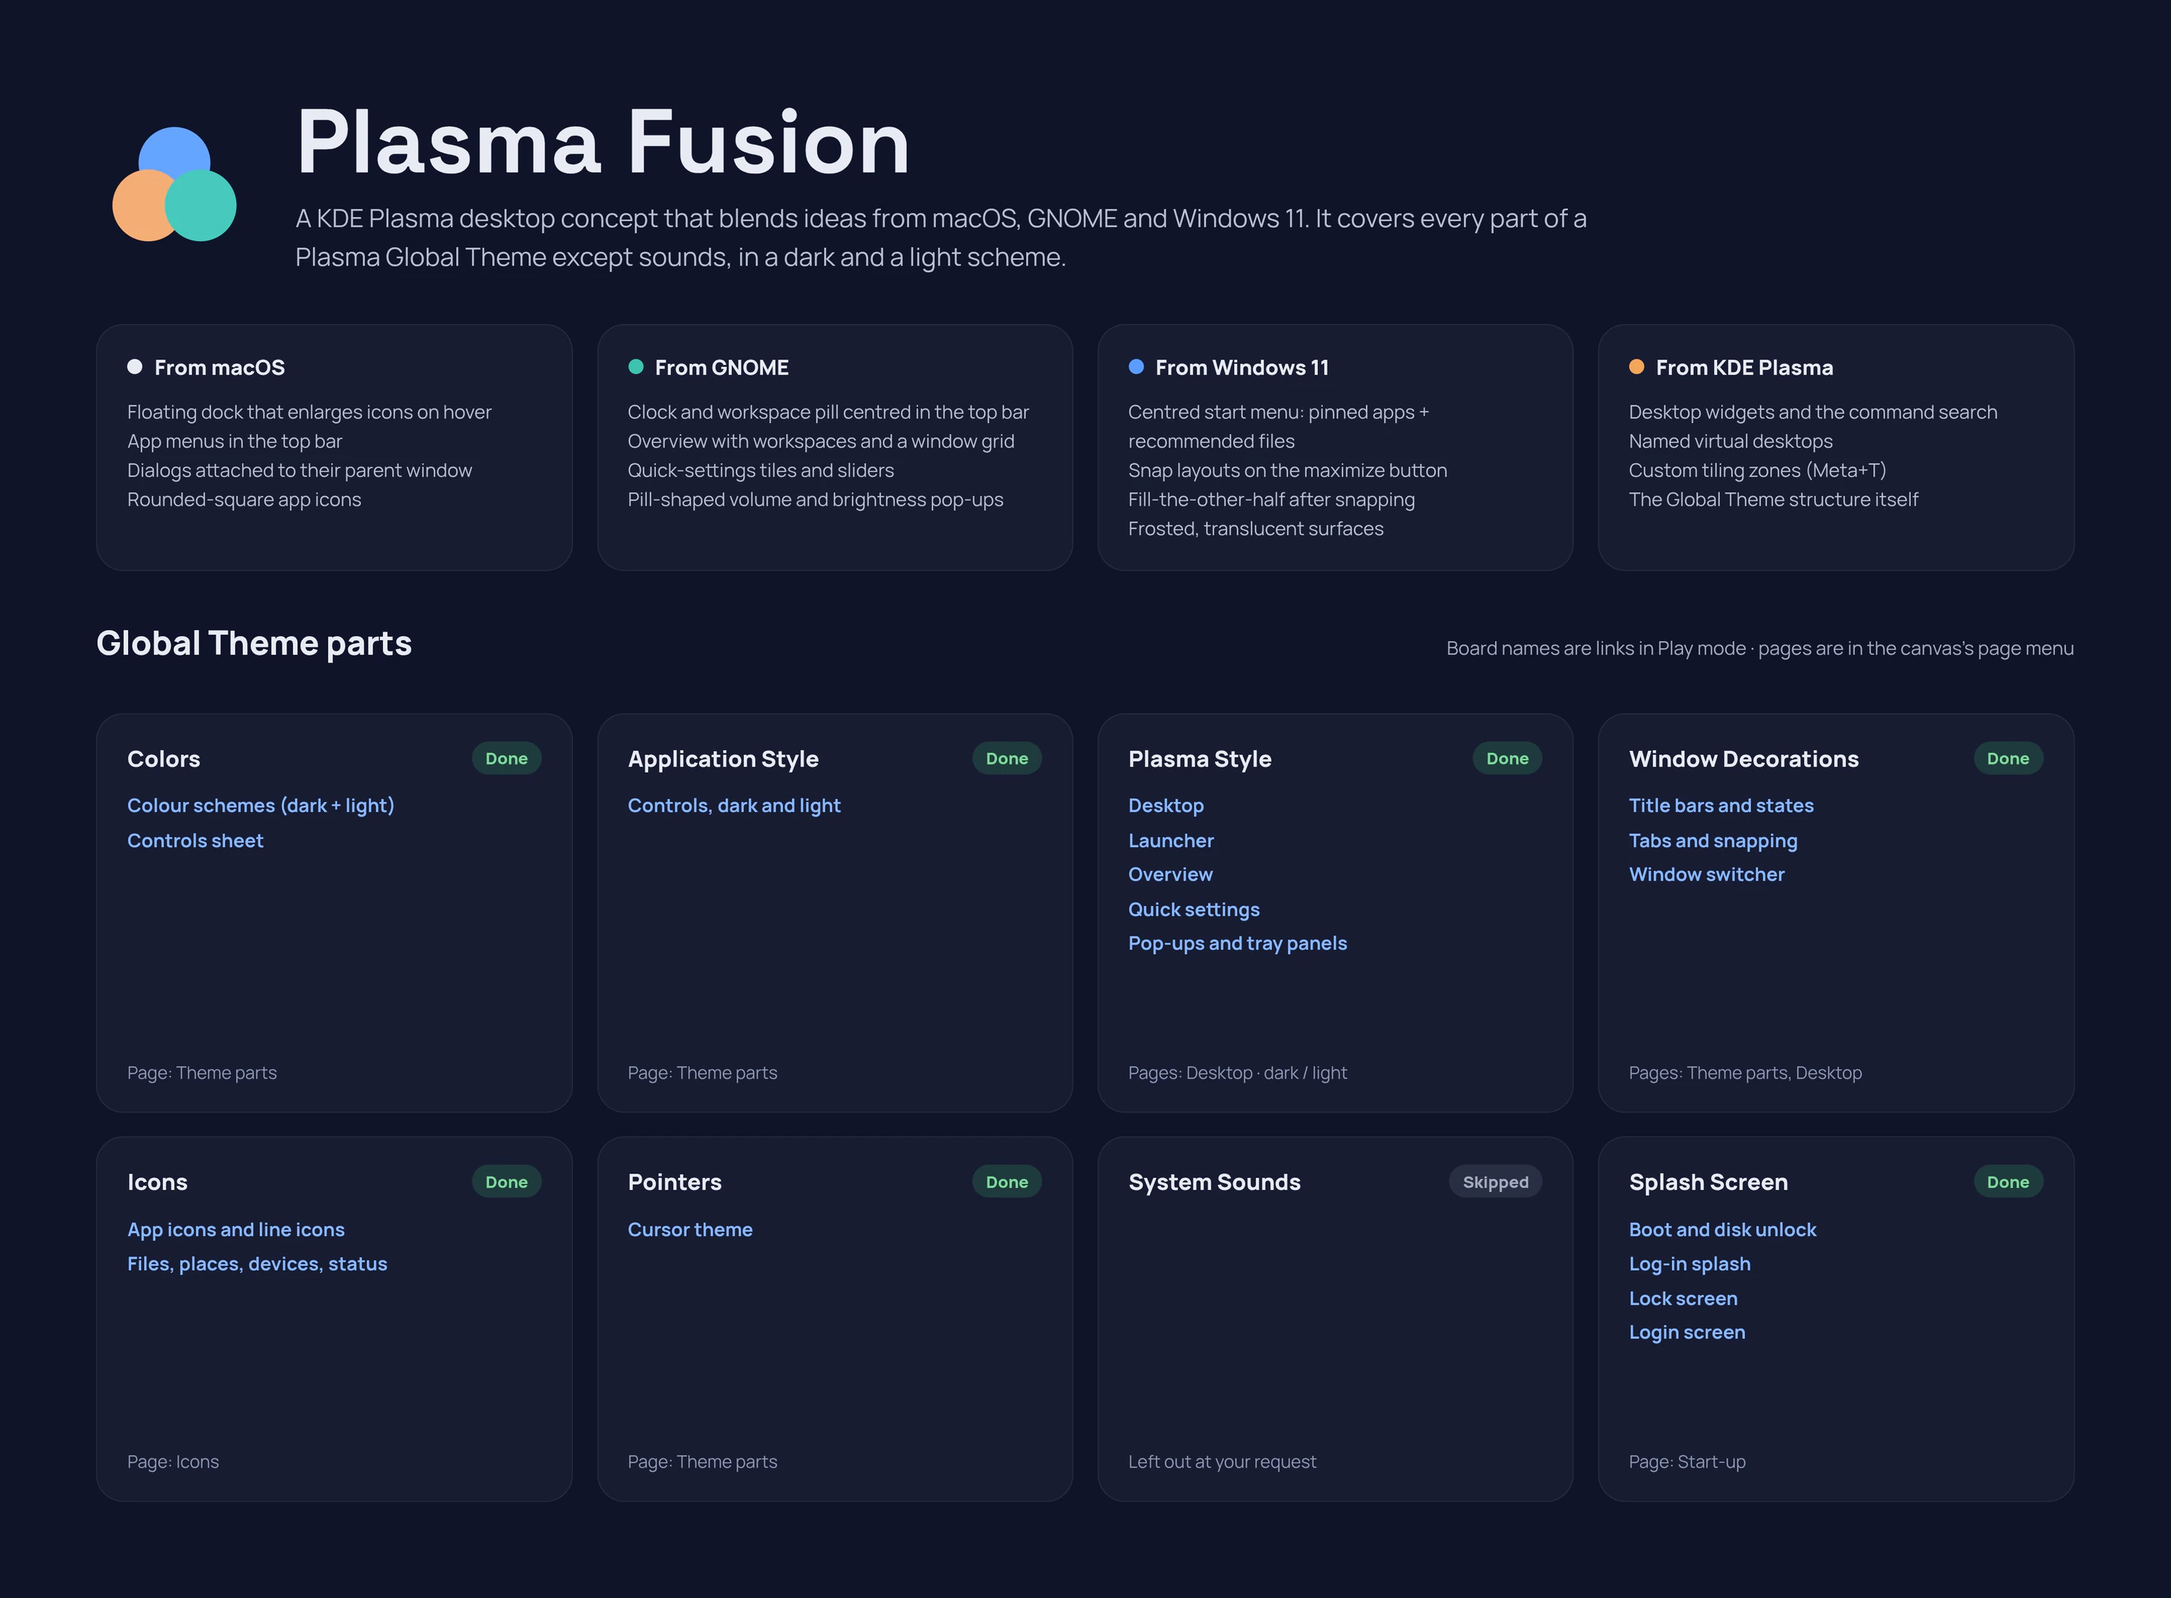
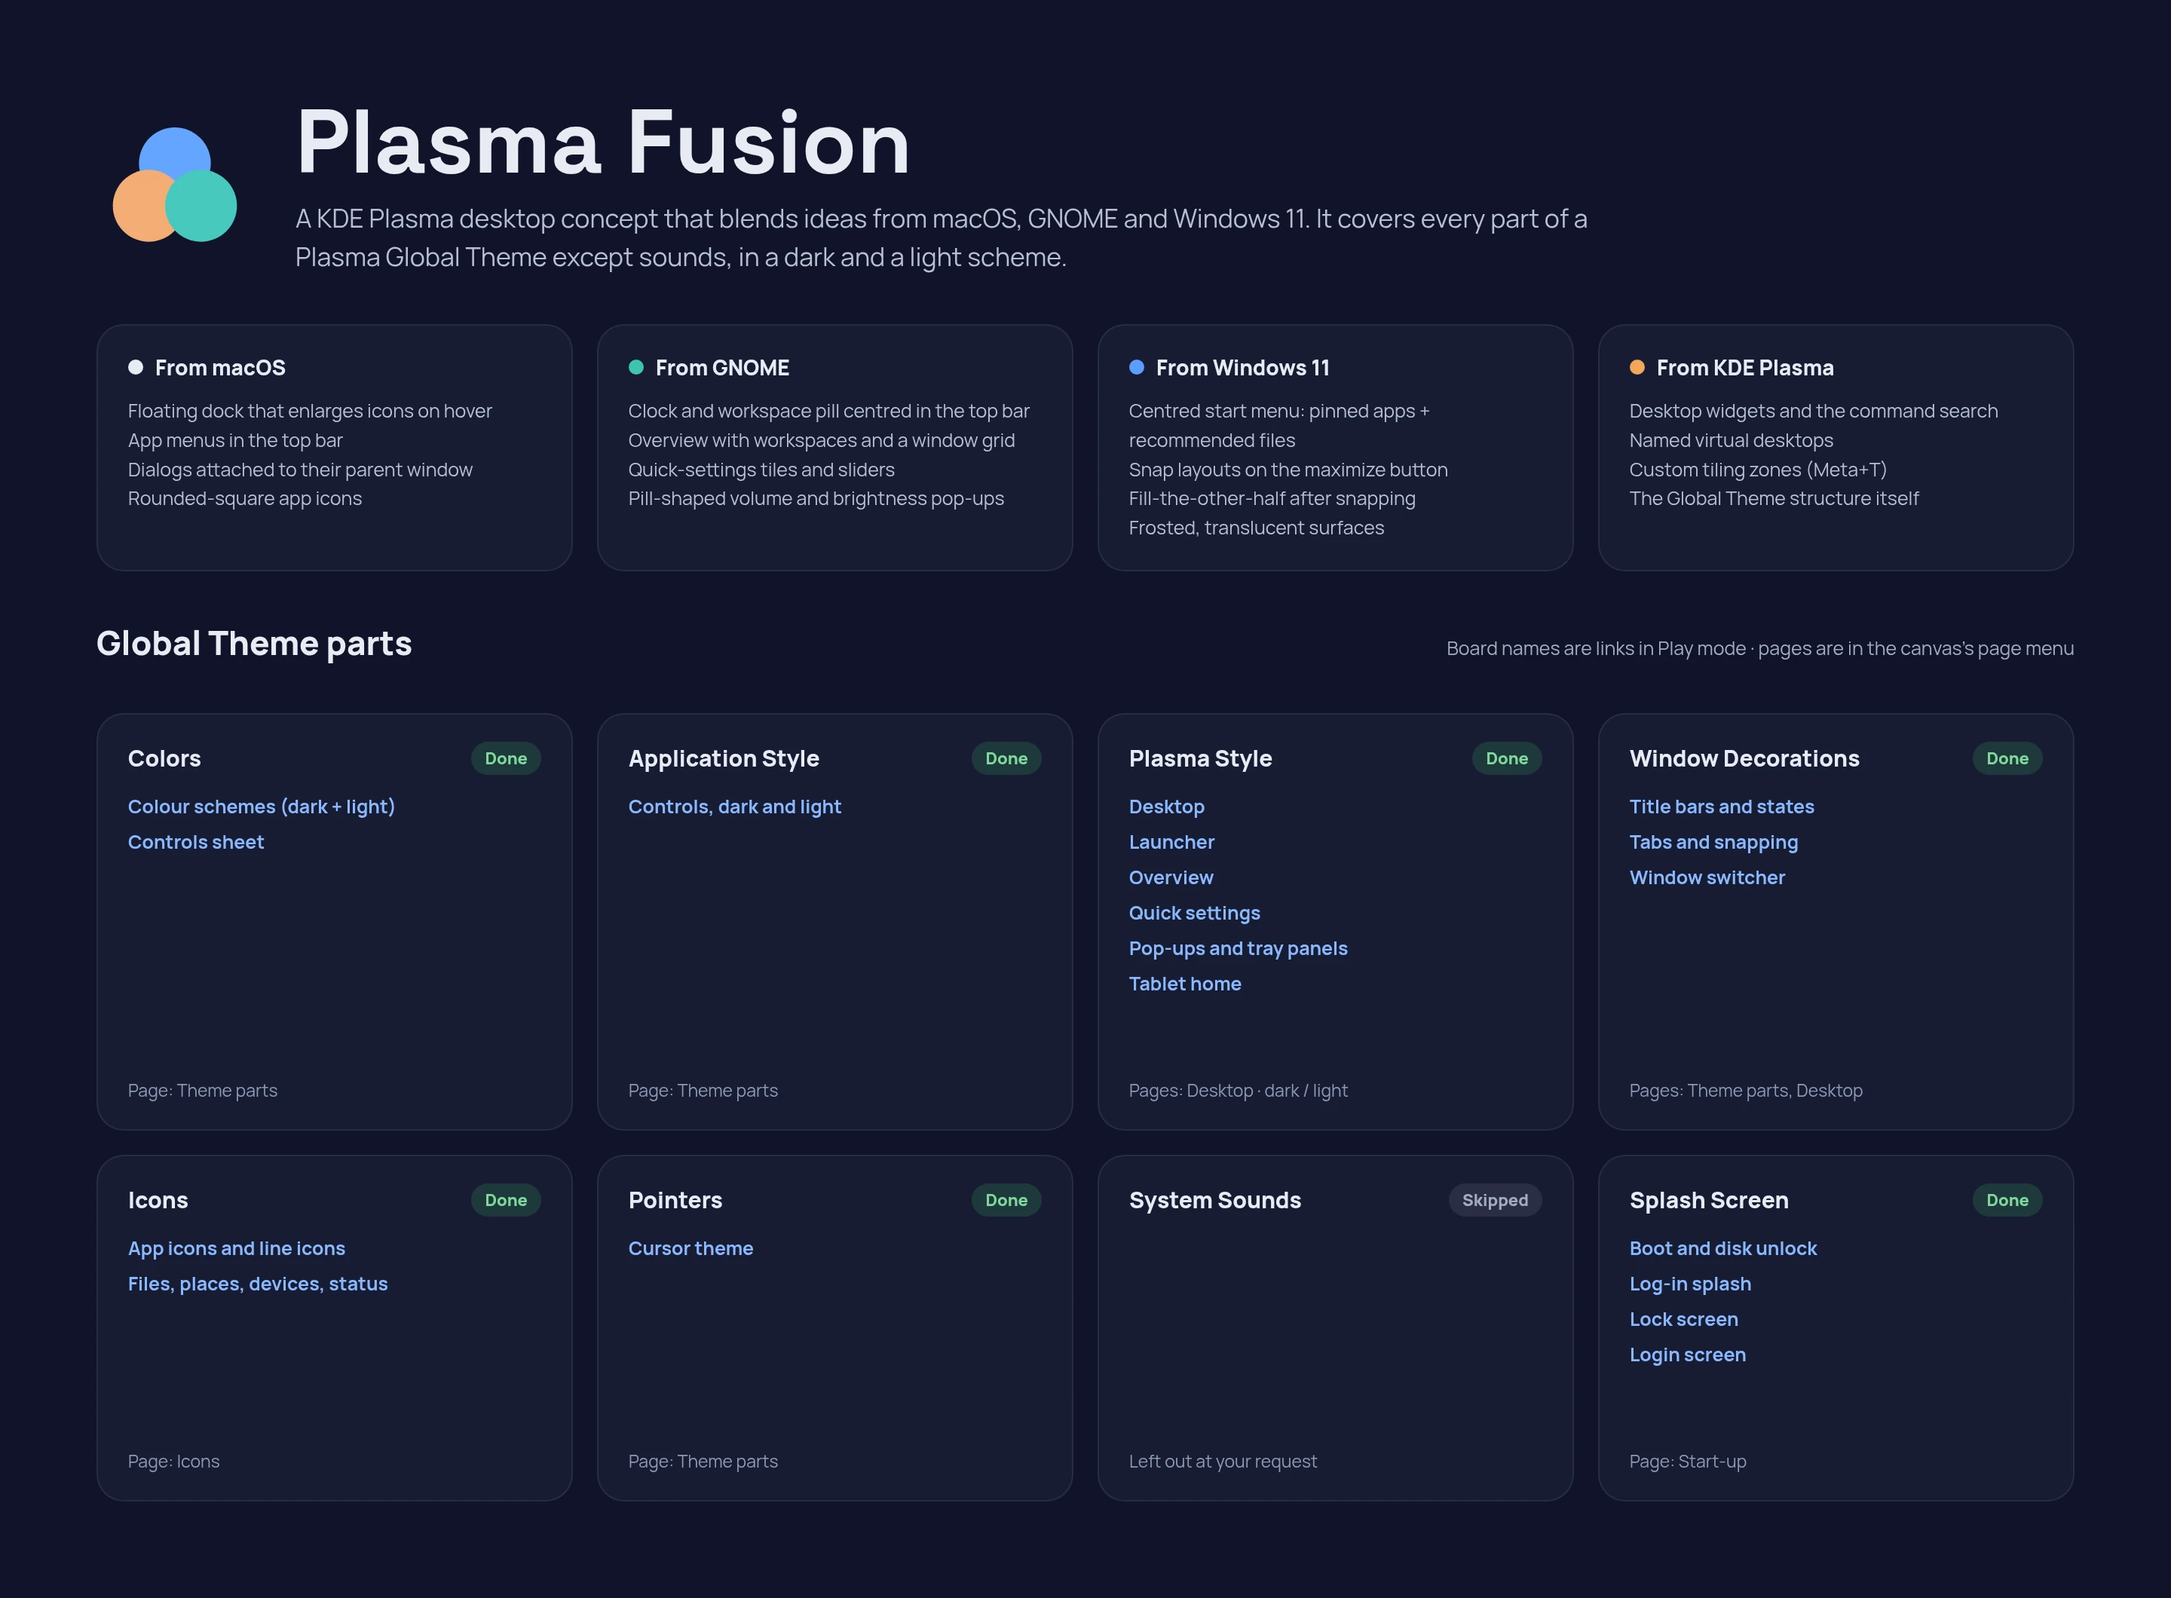
Design: the tablet home derives from the 836 px work area
The dock's bottom strip reserves 20 px (exclusive zone), so with the
44 px top bar the tablet work area at 1440x900 is 1440x836
(docs/parts/shell-dock.md): the grid rows are floor(648 / 5) = 129 and
the visible page-dot row sits at screen 730. The app pill reserves the
runtime's 20 px logo slot, the battery fill is 9.84 units (12 x 82 / 100),
and Contents.dc.html lists the tablet board in the Plasma Style section
with its preview regenerated.

Previews re-rendered with design/render/render.py.

diff --git a/design/boards/Tablet.dc.html b/design/boards/Tablet.dc.html
@@ -30,7 +30,7 @@ a{color:#8ab8ff}a:hover{color:#b9d4ff}
 </svg>
 
 <!-- Page 1: the pinned apps (the launcher's list), over the wallpaper -->
-<div aria-label="Home screen, page 1" style="position:absolute;left:48px;top:68px;width:1120px;display:grid;grid-template-columns:repeat(5, minmax(0, 1fr));grid-auto-rows:133px;justify-items:center">
+<div aria-label="Home screen, page 1" style="position:absolute;left:48px;top:68px;width:1120px;display:grid;grid-template-columns:repeat(5, minmax(0, 1fr));grid-auto-rows:129px;justify-items:center">
 
 <div style="display:flex;flex-direction:column;align-items:center;justify-content:center;gap:10px;height:100%">
 <button aria-label="Dolphin" class="tile" style="width:72px;height:72px;border-radius:19px"><svg xmlns="http://www.w3.org/2000/svg" width="72" height="72" viewBox="0 0 64 64"><path d="M15 0h34a15 15 0 0 1 15 15v34a15 15 0 0 1 -15 15h-34a15 15 0 0 1 -15 -15v-34a15 15 0 0 1 15 -15z" fill="#2b5db5"/><path d="M15 0h34a15 15 0 0 1 15 15v30a15 15 0 0 1 -15 15h-34a15 15 0 0 1 -15 -15v-30a15 15 0 0 1 15 -15z" fill="#3f7fe0"/><path d="M15 0h34a15 15 0 0 1 15 15v13H0V15A15 15 0 0 1 15 0z" fill="#ffffff" fill-opacity="0.09"/><path d="M13 19a4 4 0 0 1 4-4h9l4 4h17a4 4 0 0 1 4 4v19H13z" fill="#bcd4ff"/><path fill-rule="evenodd" d="M17 24h30a4 4 0 0 1 4 4v14a4 4 0 0 1 -4 4h-30a4 4 0 0 1 -4 -4v-14a4 4 0 0 1 4 -4z" fill="#ffffff"/><path fill-rule="evenodd" d="M16.5 44.5c3-7 10-11.5 18.5-12.5 4-.4 7.5.3 10.5 1.6l4.5-.4-3.4 2.8c-4.4-.7-9 0-13 2-3.6 1.8-6.5 4.4-8.5 7.4l-1.9-3.4c-2.4 1.5-4.6 2.3-6.7 2.5zM31.5 32.6l3.6-5.6 2.8 5.1zM37 37.2l-1.8 4.6 5.6-4.1z" fill="#3f7fe0"/><path d="M16.5 44.5c3-7 10-11.5 18.5-12.5 4-.4 7.5.3 10.5 1.6l4.5-.4-3.4 2.8c-4.4-.7-9 0-13 2-3.6 1.8-6.5 4.4-8.5 7.4l-1.9-3.4c-2.4 1.5-4.6 2.3-6.7 2.5zM31.5 32.6l3.6-5.6 2.8 5.1zM37 37.2l-1.8 4.6 5.6-4.1z" fill="url(#pf-sheen)" fill-rule="evenodd"/><path d="M15 0.5h34a14.5 14.5 0 0 1 14.5 14.5v34a14.5 14.5 0 0 1 -14.5 14.5h-34a14.5 14.5 0 0 1 -14.5 -14.5v-34a14.5 14.5 0 0 1 14.5 -14.5z" fill="none" stroke="#ffffff" stroke-opacity="0.14" stroke-width="1" stroke-linecap="butt" stroke-linejoin="miter"/></svg></button>
@@ -155,7 +155,7 @@ a{color:#8ab8ff}a:hover{color:#b9d4ff}
 <header style="position:absolute;left:0;top:0;width:1440px;height:44px;box-sizing:border-box;padding:0 10px;display:flex;align-items:center;justify-content:space-between;background:rgba(9,12,24,0.58);backdrop-filter:blur(24px) saturate(1.3);-webkit-backdrop-filter:blur(24px) saturate(1.3);border-bottom:1px solid rgba(255,255,255,0.06);font-size:13px">
 <div style="width:470px;display:flex;align-items:center">
 <div aria-label="Desktop" style="display:flex;align-items:center;gap:8px;height:32px;padding:0 14px;border-radius:16px;background:rgba(255,255,255,0.08)">
-<svg width="18" height="18" viewBox="0 0 24 24" aria-hidden="true"><circle cx="12" cy="8.5" r="5.5" fill="#5b9dff" fill-opacity="0.9"></circle><circle cx="8" cy="15" r="5.5" fill="#f2a65a" fill-opacity="0.9"></circle><circle cx="16" cy="15" r="5.5" fill="#3cc4b0" fill-opacity="0.85"></circle></svg>
+<span style="width:20px;height:20px;display:flex;align-items:center;justify-content:center"><svg width="18" height="18" viewBox="0 0 24 24" aria-hidden="true"><circle cx="12" cy="8.5" r="5.5" fill="#5b9dff" fill-opacity="0.9"></circle><circle cx="8" cy="15" r="5.5" fill="#f2a65a" fill-opacity="0.9"></circle><circle cx="16" cy="15" r="5.5" fill="#3cc4b0" fill-opacity="0.85"></circle></svg></span>
 <span style="font-size:14px;font-weight:800">Desktop</span>
 </div>
 </div>
@@ -167,14 +167,14 @@ a{color:#8ab8ff}a:hover{color:#b9d4ff}
 <div aria-label="System status" style="display:flex;align-items:center;gap:12px;height:32px;padding:0 16px;border-radius:16px;background:rgba(255,255,255,0.08)">
 <svg class="i" width="18" height="18" viewBox="0 0 24 24"><path d="M2 9a15 15 0 0 1 20 0M5 12.5a10 10 0 0 1 14 0M8.5 16a5 5 0 0 1 7 0M12 19.5h.01"></path></svg>
 <svg class="i" width="18" height="18" viewBox="0 0 24 24"><path d="M4 9h4l5-4v14l-5-4H4zM16 9a4 4 0 0 1 0 6M18.5 6.5a8 8 0 0 1 0 11"></path></svg>
-<span style="display:flex;align-items:center;gap:5px"><svg class="i" width="20" height="20" viewBox="0 0 24 24"><path d="M4 7h14a2 2 0 0 1 2 2v6a2 2 0 0 1-2 2H4a2 2 0 0 1-2-2V9a2 2 0 0 1 2-2zM22 11v2"></path><path d="M5 10h9v4H5z" style="fill:currentColor;stroke:none"></path></svg><span style="font-size:14px;font-weight:800">82%</span></span>
+<span style="display:flex;align-items:center;gap:5px"><svg class="i" width="20" height="20" viewBox="0 0 24 24"><path d="M4 7h14a2 2 0 0 1 2 2v6a2 2 0 0 1-2 2H4a2 2 0 0 1-2-2V9a2 2 0 0 1 2-2zM22 11v2"></path><path d="M5 10h9.84v4H5z" style="fill:currentColor;stroke:none"></path></svg><span style="font-size:14px;font-weight:800">82%</span></span>
 </div>
 <button aria-label="Notifications, 2 unread" style="width:44px;height:44px;display:flex;align-items:center;justify-content:center;position:relative"><svg class="i" width="18" height="18" viewBox="0 0 24 24"><path d="M6 16V11a6 6 0 0 1 12 0v5l2 2H4zM10 20a2 2 0 0 0 4 0"></path></svg><span style="position:absolute;left:26px;top:9px;width:8px;height:8px;border-radius:4px;background:#f2a65a"></span></button>
 </div>
 </header>
 
 <!-- Page dots (page 1 of 3) -->
-<div aria-label="Page 1 of 3" style="position:absolute;left:50%;top:750px;transform:translateX(-50%);display:flex;align-items:center;gap:10px">
+<div aria-label="Page 1 of 3" style="position:absolute;left:50%;top:730px;transform:translateX(-50%);display:flex;align-items:center;gap:10px">
 <span style="width:20px;height:8px;border-radius:4px;background:rgba(255,255,255,0.9)"></span>
 <span style="width:8px;height:8px;border-radius:4px;background:rgba(255,255,255,0.4)"></span>
 <span style="width:8px;height:8px;border-radius:4px;background:rgba(255,255,255,0.4)"></span>

diff --git a/design/boards/TabletLight.dc.html b/design/boards/TabletLight.dc.html
@@ -30,7 +30,7 @@ a{color:#2f6fdf}a:hover{color:#2359c4}
 </svg>
 
 <!-- Page 1: the pinned apps (the launcher's list), over the wallpaper -->
-<div aria-label="Home screen, page 1" style="position:absolute;left:48px;top:68px;width:1120px;display:grid;grid-template-columns:repeat(5, minmax(0, 1fr));grid-auto-rows:133px;justify-items:center">
+<div aria-label="Home screen, page 1" style="position:absolute;left:48px;top:68px;width:1120px;display:grid;grid-template-columns:repeat(5, minmax(0, 1fr));grid-auto-rows:129px;justify-items:center">
 
 <div style="display:flex;flex-direction:column;align-items:center;justify-content:center;gap:10px;height:100%">
 <button aria-label="Dolphin" class="tile" style="width:72px;height:72px;border-radius:19px"><svg xmlns="http://www.w3.org/2000/svg" width="72" height="72" viewBox="0 0 64 64"><path d="M15 0h34a15 15 0 0 1 15 15v34a15 15 0 0 1 -15 15h-34a15 15 0 0 1 -15 -15v-34a15 15 0 0 1 15 -15z" fill="#2b5db5"/><path d="M15 0h34a15 15 0 0 1 15 15v30a15 15 0 0 1 -15 15h-34a15 15 0 0 1 -15 -15v-30a15 15 0 0 1 15 -15z" fill="#3f7fe0"/><path d="M15 0h34a15 15 0 0 1 15 15v13H0V15A15 15 0 0 1 15 0z" fill="#ffffff" fill-opacity="0.09"/><path d="M13 19a4 4 0 0 1 4-4h9l4 4h17a4 4 0 0 1 4 4v19H13z" fill="#bcd4ff"/><path fill-rule="evenodd" d="M17 24h30a4 4 0 0 1 4 4v14a4 4 0 0 1 -4 4h-30a4 4 0 0 1 -4 -4v-14a4 4 0 0 1 4 -4z" fill="#ffffff"/><path fill-rule="evenodd" d="M16.5 44.5c3-7 10-11.5 18.5-12.5 4-.4 7.5.3 10.5 1.6l4.5-.4-3.4 2.8c-4.4-.7-9 0-13 2-3.6 1.8-6.5 4.4-8.5 7.4l-1.9-3.4c-2.4 1.5-4.6 2.3-6.7 2.5zM31.5 32.6l3.6-5.6 2.8 5.1zM37 37.2l-1.8 4.6 5.6-4.1z" fill="#3f7fe0"/><path d="M16.5 44.5c3-7 10-11.5 18.5-12.5 4-.4 7.5.3 10.5 1.6l4.5-.4-3.4 2.8c-4.4-.7-9 0-13 2-3.6 1.8-6.5 4.4-8.5 7.4l-1.9-3.4c-2.4 1.5-4.6 2.3-6.7 2.5zM31.5 32.6l3.6-5.6 2.8 5.1zM37 37.2l-1.8 4.6 5.6-4.1z" fill="url(#pf-sheen)" fill-rule="evenodd"/><path d="M15 0.5h34a14.5 14.5 0 0 1 14.5 14.5v34a14.5 14.5 0 0 1 -14.5 14.5h-34a14.5 14.5 0 0 1 -14.5 -14.5v-34a14.5 14.5 0 0 1 14.5 -14.5z" fill="none" stroke="#ffffff" stroke-opacity="0.14" stroke-width="1" stroke-linecap="butt" stroke-linejoin="miter"/></svg></button>
@@ -155,7 +155,7 @@ a{color:#2f6fdf}a:hover{color:#2359c4}
 <header style="position:absolute;left:0;top:0;width:1440px;height:44px;box-sizing:border-box;padding:0 10px;display:flex;align-items:center;justify-content:space-between;background:rgba(250,251,255,0.74);backdrop-filter:blur(24px) saturate(1.3);-webkit-backdrop-filter:blur(24px) saturate(1.3);border-bottom:1px solid rgba(20,24,39,0.06);font-size:13px">
 <div style="width:470px;display:flex;align-items:center">
 <div aria-label="Desktop" style="display:flex;align-items:center;gap:8px;height:32px;padding:0 14px;border-radius:16px;background:rgba(20,24,39,0.08)">
-<svg width="18" height="18" viewBox="0 0 24 24" aria-hidden="true"><circle cx="12" cy="8.5" r="5.5" fill="#5b9dff" fill-opacity="0.9"></circle><circle cx="8" cy="15" r="5.5" fill="#f2a65a" fill-opacity="0.9"></circle><circle cx="16" cy="15" r="5.5" fill="#3cc4b0" fill-opacity="0.85"></circle></svg>
+<span style="width:20px;height:20px;display:flex;align-items:center;justify-content:center"><svg width="18" height="18" viewBox="0 0 24 24" aria-hidden="true"><circle cx="12" cy="8.5" r="5.5" fill="#5b9dff" fill-opacity="0.9"></circle><circle cx="8" cy="15" r="5.5" fill="#f2a65a" fill-opacity="0.9"></circle><circle cx="16" cy="15" r="5.5" fill="#3cc4b0" fill-opacity="0.85"></circle></svg></span>
 <span style="font-size:14px;font-weight:800">Desktop</span>
 </div>
 </div>
@@ -167,14 +167,14 @@ a{color:#2f6fdf}a:hover{color:#2359c4}
 <div aria-label="System status" style="display:flex;align-items:center;gap:12px;height:32px;padding:0 16px;border-radius:16px;background:rgba(20,24,39,0.08)">
 <svg class="i" width="18" height="18" viewBox="0 0 24 24"><path d="M2 9a15 15 0 0 1 20 0M5 12.5a10 10 0 0 1 14 0M8.5 16a5 5 0 0 1 7 0M12 19.5h.01"></path></svg>
 <svg class="i" width="18" height="18" viewBox="0 0 24 24"><path d="M4 9h4l5-4v14l-5-4H4zM16 9a4 4 0 0 1 0 6M18.5 6.5a8 8 0 0 1 0 11"></path></svg>
-<span style="display:flex;align-items:center;gap:5px"><svg class="i" width="20" height="20" viewBox="0 0 24 24"><path d="M4 7h14a2 2 0 0 1 2 2v6a2 2 0 0 1-2 2H4a2 2 0 0 1-2-2V9a2 2 0 0 1 2-2zM22 11v2"></path><path d="M5 10h9v4H5z" style="fill:currentColor;stroke:none"></path></svg><span style="font-size:14px;font-weight:800">82%</span></span>
+<span style="display:flex;align-items:center;gap:5px"><svg class="i" width="20" height="20" viewBox="0 0 24 24"><path d="M4 7h14a2 2 0 0 1 2 2v6a2 2 0 0 1-2 2H4a2 2 0 0 1-2-2V9a2 2 0 0 1 2-2zM22 11v2"></path><path d="M5 10h9.84v4H5z" style="fill:currentColor;stroke:none"></path></svg><span style="font-size:14px;font-weight:800">82%</span></span>
 </div>
 <button aria-label="Notifications, 2 unread" style="width:44px;height:44px;display:flex;align-items:center;justify-content:center;position:relative"><svg class="i" width="18" height="18" viewBox="0 0 24 24"><path d="M6 16V11a6 6 0 0 1 12 0v5l2 2H4zM10 20a2 2 0 0 0 4 0"></path></svg><span style="position:absolute;left:26px;top:9px;width:8px;height:8px;border-radius:4px;background:#f2a65a"></span></button>
 </div>
 </header>
 
 <!-- Page dots (page 1 of 3) -->
-<div aria-label="Page 1 of 3" style="position:absolute;left:50%;top:750px;transform:translateX(-50%);display:flex;align-items:center;gap:10px">
+<div aria-label="Page 1 of 3" style="position:absolute;left:50%;top:730px;transform:translateX(-50%);display:flex;align-items:center;gap:10px">
 <span style="width:20px;height:8px;border-radius:4px;background:rgba(255,255,255,0.9)"></span>
 <span style="width:8px;height:8px;border-radius:4px;background:rgba(255,255,255,0.4)"></span>
 <span style="width:8px;height:8px;border-radius:4px;background:rgba(255,255,255,0.4)"></span>

diff --git a/design/boards/Contents.dc.html b/design/boards/Contents.dc.html
@@ -72,7 +72,7 @@ class Component extends DCLogic {
     const parts = [
       P('Colors', 'Done', [['Colour schemes (dark + light)', 'Colors.dc.html'], ['Controls sheet', 'Controls.dc.html']], 'Page: Theme parts'),
       P('Application Style', 'Done', [['Controls, dark and light', 'Controls.dc.html']], 'Page: Theme parts'),
-      P('Plasma Style', 'Done', [['Desktop', 'Main.dc.html'], ['Launcher', 'Launcher.dc.html'], ['Overview', 'Overview.dc.html'], ['Quick settings', 'QuickSettings.dc.html'], ['Pop-ups and tray panels', 'Popups.dc.html']], 'Pages: Desktop · dark / light'),
+      P('Plasma Style', 'Done', [['Desktop', 'Main.dc.html'], ['Launcher', 'Launcher.dc.html'], ['Overview', 'Overview.dc.html'], ['Quick settings', 'QuickSettings.dc.html'], ['Pop-ups and tray panels', 'Popups.dc.html'], ['Tablet home', 'Tablet.dc.html']], 'Pages: Desktop · dark / light'),
       P('Window Decorations', 'Done', [['Title bars and states', 'Windows.dc.html'], ['Tabs and snapping', 'TabsSnap.dc.html'], ['Window switcher', 'AltTab.dc.html']], 'Pages: Theme parts, Desktop'),
       P('Icons', 'Done', [['App icons and line icons', 'Icons.dc.html'], ['Files, places, devices, status', 'FileIcons.dc.html']], 'Page: Icons'),
       P('Pointers', 'Done', [['Cursor theme', 'Pointers.dc.html']], 'Page: Theme parts'),
